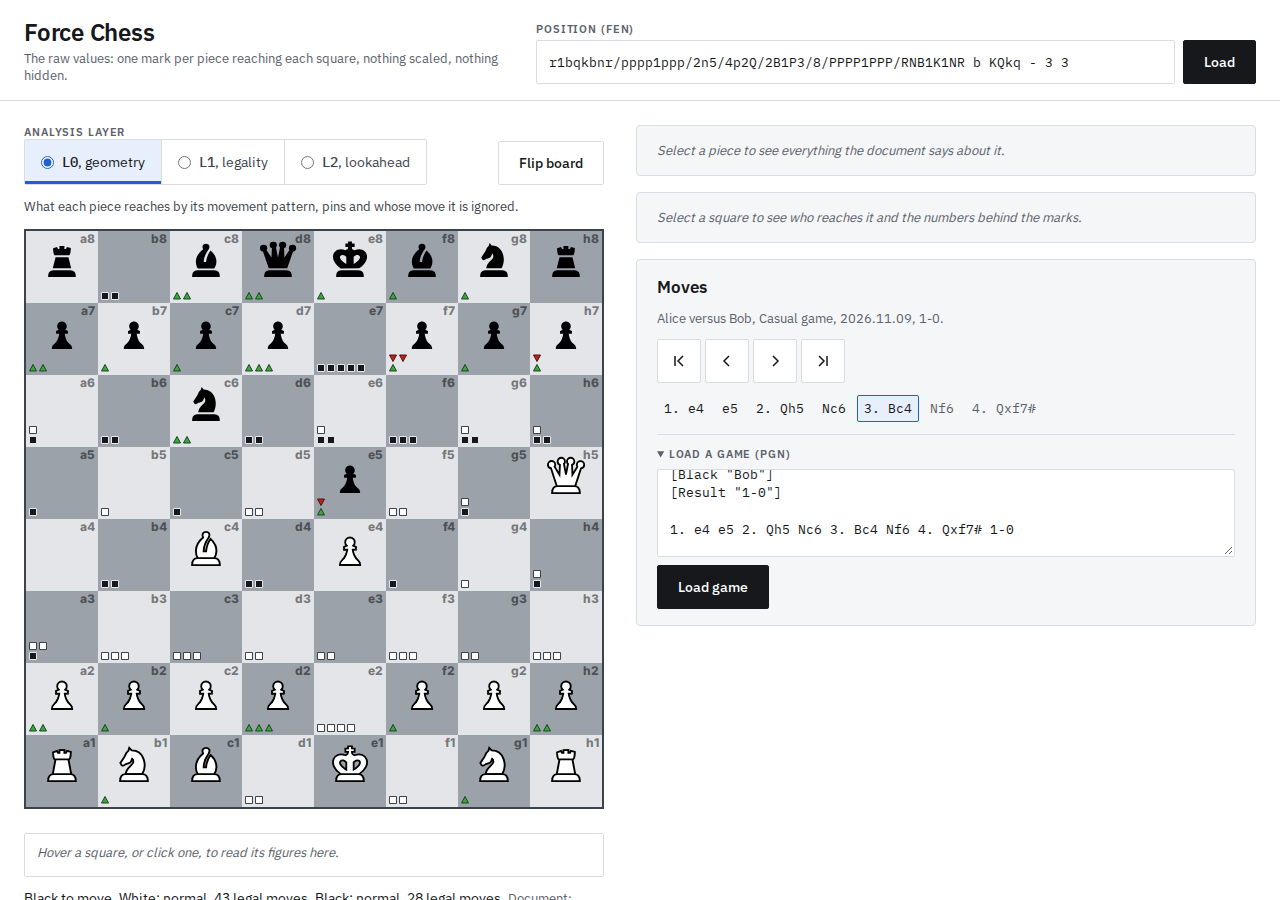
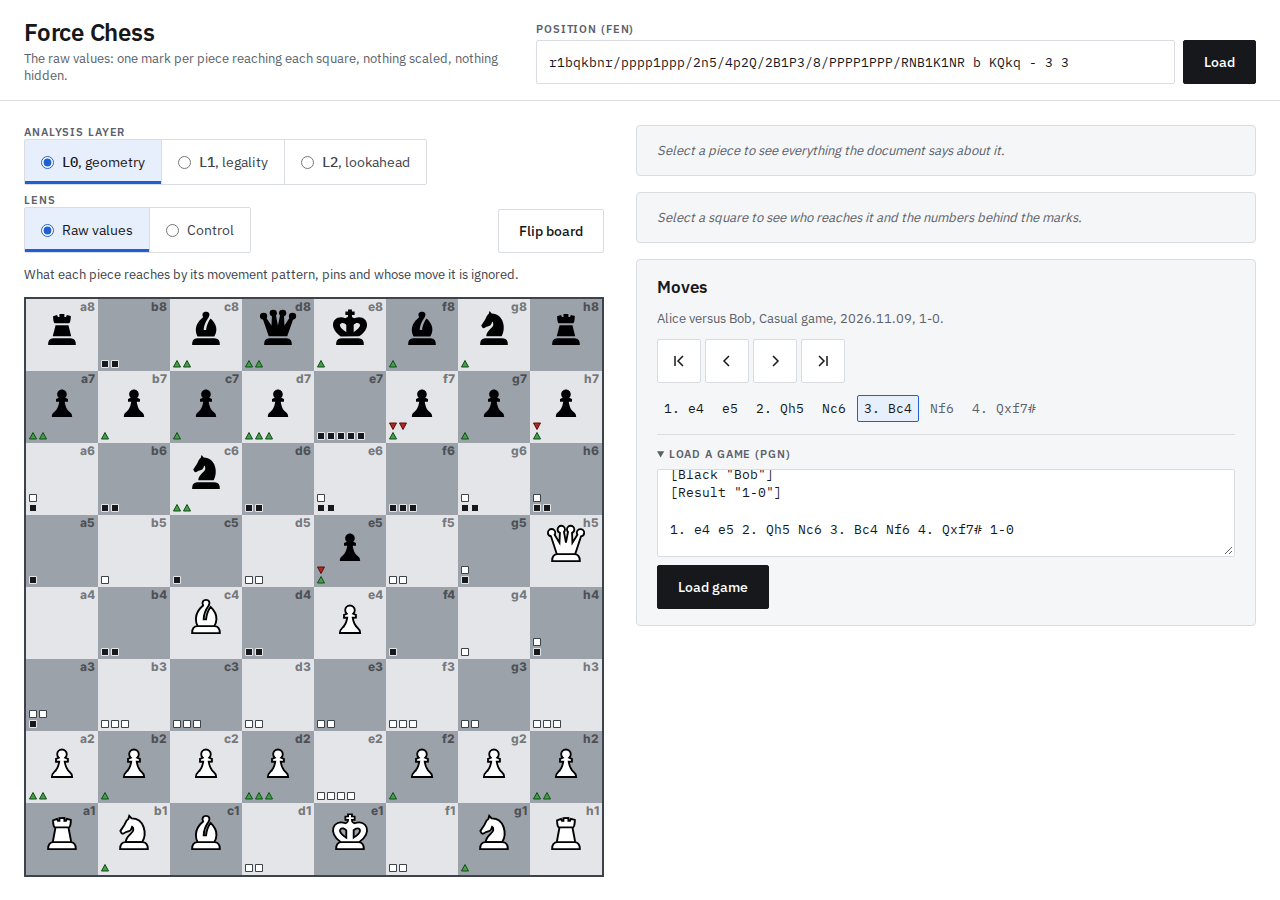
Check the control lens against the marks on all 64 squares in chromium
The comparison the concept asks of a designed lens (7.1): with the
Control lens on, the fill the page draws on each of the 64 squares is
read back and checked against the tally marks on the same square, on
the starting position, the pinned-rook position and Kiwipete at L0 and
L1. A white tint needs more white-side marks than black, a black tint
the reverse, hatching marks of both sides, no tint no marks, and the
step is the lead capped at three; a named fill must also be painted.
The test also pins the readout, panel and legend words, that the lens
draws nothing at L2, that it leaves the marks and the analysed count
alone, and that it is not in the URL hash. A fourth screenshot,
control-lens-L1, shows the pinned-rook position under the lens; the
other three are regenerated because the toolbar gained the selector.

diff --git a/web/e2e/control.spec.ts b/web/e2e/control.spec.ts
@@ -1,0 +1,196 @@
+// The control lens is checked against the raw values it is drawn over
+// (concept 7.1): on every one of the 64 squares, the fill the page draws is
+// compared with the tally marks on the same square. A square tinted white
+// must carry more white-side marks than black-side ones, a black tint the
+// other way, hatching marks of both sides, and no tint no marks; the step
+// must be the size of the lead, capped at three. The lens is a view: it is
+// not in the URL hash, it draws nothing at L2, and it leaves the marks alone.
+
+import { expect, test, type Page } from "@playwright/test";
+import { fileURLToPath } from "node:url";
+
+const SCREENSHOTS = fileURLToPath(new URL("../../docs/screenshots/", import.meta.url));
+const WRITE_SCREENSHOTS = process.env["FORCE_CHESS_SCREENSHOTS"] === "1";
+
+const PINNED_ROOK = "4r3/8/8/8/8/1k6/4R1P1/4K3 w - - 0 1";
+// Kiwipete (docs/measurements/corpus.fen): every piece on, batteries, pins, and squares of every class.
+const KIWIPETE = "r3k2r/p1ppqpb1/bn2pnp1/3PN3/1p2P3/2N2Q1p/PPPBBPPP/R3K2R w KQkq - 0 1";
+
+interface DrawnSquare {
+  piece: string | null;
+  fill: string | null;
+  step: number;
+  contested: boolean;
+  marks: Record<string, number>;
+  /** The computed background layers, to check that a fill is actually painted. */
+  background: string;
+}
+
+/** Every square as the page draws it: the piece, the fill attributes, the mark count per meaning and the painted background. */
+async function drawnBoard(page: Page): Promise<Record<string, DrawnSquare>> {
+  return page.evaluate(() => {
+    const result: Record<string, DrawnSquare> = {};
+    for (const node of document.querySelectorAll<HTMLElement>("#board [data-square]")) {
+      const marks: Record<string, number> = {};
+      for (const row of node.querySelectorAll<HTMLElement>("[data-tally]")) {
+        marks[row.dataset["tally"] ?? ""] = row.querySelectorAll(".mark").length;
+      }
+      result[node.dataset["square"] ?? ""] = {
+        piece: node.querySelector<HTMLElement>("[data-piece]")?.dataset["piece"] ?? null,
+        fill: node.dataset["fill"] ?? null,
+        step: Number(node.dataset["fillStep"] ?? "0"),
+        contested: node.dataset["contested"] === "true",
+        marks,
+        background: getComputedStyle(node).backgroundImage,
+      };
+    }
+    return result;
+  });
+}
+
+/** The marks of each side on a square: side marks on an empty square, threats and defences by the occupant's colour. */
+function sideMarks(square: DrawnSquare): { white: number; black: number } {
+  const count = (meaning: string) => square.marks[meaning] ?? 0;
+  if (square.piece === null) return { white: count("white"), black: count("black") };
+  const friendly = square.piece.startsWith("white") ? "white" : "black";
+  const threats = count("threat");
+  const defences = count("defence");
+  return friendly === "white" ? { white: defences, black: threats } : { white: threats, black: defences };
+}
+
+/** Checks every square's fill against its marks. Returns the number of squares that carried a tint or hatching. */
+function checkAgainstMarks(board: Record<string, DrawnSquare>): number {
+  expect(Object.keys(board)).toHaveLength(64);
+  let drawn = 0;
+  for (const [name, square] of Object.entries(board)) {
+    const { white, black } = sideMarks(square);
+    expect(square.fill, name).not.toBeNull();
+    switch (square.fill) {
+      case "white":
+        expect(white, `${name}: white tint needs more white marks`).toBeGreaterThan(black);
+        break;
+      case "black":
+        expect(black, `${name}: black tint needs more black marks`).toBeGreaterThan(white);
+        break;
+      case "even":
+        expect(white, `${name}: even needs marks of both sides`).toBeGreaterThan(0);
+        expect(white, `${name}: even needs equal marks`).toBe(black);
+        break;
+      case "none":
+        expect(white + black, `${name}: no tint means no marks`).toBe(0);
+        break;
+      default:
+        throw new Error(`${name}: unexpected fill ${square.fill}`);
+    }
+    expect(square.step, `${name}: step is the lead capped at three`).toBe(Math.min(3, Math.abs(white - black)));
+    expect(square.contested, `${name}: hatching means both sides reach it`).toBe(white > 0 && black > 0);
+    // What is named is painted: a tint or a hatch is a gradient layer of the background, and a plain square has none.
+    const painted = square.background.includes("gradient");
+    expect(painted, `${name}: ${square.fill} step ${square.step} ${square.contested ? "hatched" : ""} painted? ${square.background}`).toBe(
+      square.step > 0 || square.contested,
+    );
+    if (painted) drawn += 1;
+  }
+  return drawn;
+}
+
+async function ready(page: Page): Promise<void> {
+  await page.goto("/");
+  await expect(page.locator("html[data-ready='true']")).toBeAttached({ timeout: 20_000 });
+}
+
+async function loadFen(page: Page, fen: string): Promise<void> {
+  await page.fill("#fen-input", fen);
+  await page.click("#load-fen");
+  await expect(page.locator("#fen-input")).toHaveValue(fen);
+}
+
+test("every square's fill agrees with its marks, on three positions at L0 and L1", async ({ page }) => {
+  await ready(page);
+  // The raw values draw no fill at all.
+  const raw = await drawnBoard(page);
+  expect(Object.values(raw).every((square) => square.fill === null && !square.background.includes("gradient"))).toBe(true);
+  await expect(page.locator("#lens-note")).toBeHidden();
+
+  await page.getByLabel("Control").check();
+  await expect(page.locator("#lens-note")).toContainText("tinted for the side with more pieces");
+  // Switching the lens analyses nothing again and changes no mark.
+  expect(await page.locator("html").getAttribute("data-analysed-positions")).toBe("1");
+  const lens = await drawnBoard(page);
+  for (const [name, square] of Object.entries(lens)) expect(square.marks, name).toEqual(raw[name]?.marks);
+
+  for (const fen of [null, PINNED_ROOK, KIWIPETE]) {
+    if (fen) await loadFen(page, fen);
+    for (const layer of ["L0, geometry", "L1, legality"]) {
+      await page.getByLabel(layer).check();
+      const drawn = checkAgainstMarks(await drawnBoard(page));
+      expect(drawn, `${fen ?? "starting position"} at ${layer}`).toBeGreaterThan(20);
+    }
+  }
+});
+
+test("the lens names the fill in the readout, the panel and the legend, and draws nothing at L2", async ({ page }) => {
+  await ready(page);
+  await loadFen(page, KIWIPETE);
+  await page.getByLabel("Control").check();
+  // The legend gains the three steps of each side and the hatching after the marks.
+  const legendLabels = page.locator("#legend dt");
+  await expect(legendLabels).toHaveCount(11);
+  await expect(legendLabels.nth(4)).toHaveText("White tint, by one");
+  await expect(legendLabels.nth(10)).toHaveText("Hatched");
+  await expect(page.locator("#legend .swatch")).toHaveCount(7);
+
+  // d5: the white pawn is reached by three black pieces and defended by two: contested, black ahead by one.
+  const d5 = page.locator("[data-square='d5']");
+  await expect(d5).toHaveAttribute("data-fill", "black");
+  await expect(d5).toHaveAttribute("data-fill-step", "1");
+  await expect(d5).toHaveAttribute("data-contested", "true");
+  await d5.hover();
+  const readout = page.locator("#readout");
+  await expect(readout).toContainText("Control at L0 contested");
+  await expect(readout).toContainText("Lens at L0 contested, black ahead by 1, tint by one, hatched");
+  await d5.click();
+  await expect(page.locator("#square-panel")).toContainText("At L0: Contested, black ahead by 1 piece: black tint by one, hatched.");
+  // g2: the pawn is reached by one piece of each side: even, hatched, no tint.
+  await expect(page.locator("[data-square='g2']")).toHaveAttribute("data-fill", "even");
+  await expect(page.locator("[data-square='g2']")).toHaveAttribute("data-fill-step", "0");
+
+  // At L2 the lens stays chosen, draws nothing, and says why; the legend drops the fills.
+  await page.getByLabel("L2, lookahead").check();
+  await expect(page.locator("#lens-note")).toContainText("L0 and L1 only");
+  await expect(page.locator("#board [data-fill]")).toHaveCount(0);
+  await expect(page.locator("#legend .swatch")).toHaveCount(0);
+  await expect(page.getByLabel("Control")).toBeChecked();
+  await page.getByLabel("L1, legality").check();
+  await expect(page.locator("#board [data-fill]")).toHaveCount(64);
+
+  // The lens is a view, not a position: the URL hash holds the FEN and nothing about the lens.
+  expect(decodeURIComponent(page.url().split("#")[1] ?? "")).toBe(KIWIPETE);
+  await page.reload();
+  await expect(page.locator("html[data-ready='true']")).toBeAttached({ timeout: 20_000 });
+  await expect(page.getByLabel("Raw values")).toBeChecked();
+});
+
+test("the pinned rook under the control lens at L1", async ({ page }) => {
+  await ready(page);
+  await loadFen(page, PINNED_ROOK);
+  await page.getByLabel("L1, legality").check();
+  await page.getByLabel("Control").check();
+  // The rook on e2 is pinned by the rook on e8. At L0 the king defends it and the black rook reaches it: even.
+  // At L1 the king's recapture is excluded (the king would step into the black rook's line), so black is
+  // ahead by one and the square is no longer contested.
+  await page.getByLabel("L0, geometry").check();
+  await expect(page.locator("[data-square='e2']")).toHaveAttribute("data-fill", "even");
+  await page.getByLabel("L1, legality").check();
+  await expect(page.locator("[data-square='e2']")).toHaveAttribute("data-fill", "black");
+  await expect(page.locator("[data-square='e2']")).toHaveAttribute("data-fill-step", "1");
+  await expect(page.locator("[data-square='e2']")).toHaveAttribute("data-contested", "false");
+  // Nothing reaches c2 at L1, so it has no tint; the king alone reaches a3, black by one.
+  await expect(page.locator("[data-square='c2']")).toHaveAttribute("data-fill", "none");
+  await expect(page.locator("[data-square='a3']")).toHaveAttribute("data-fill", "black");
+  await expect(page.locator("[data-square='a3']")).toHaveAttribute("data-fill-step", "1");
+  await page.locator("[data-square='e2']").click();
+  await page.mouse.move(5, 5);
+  await expect(page.locator("#square-panel")).toContainText("Control lens");
+  if (WRITE_SCREENSHOTS) await page.screenshot({ path: `${SCREENSHOTS}control-lens-L1.png` });
+});
